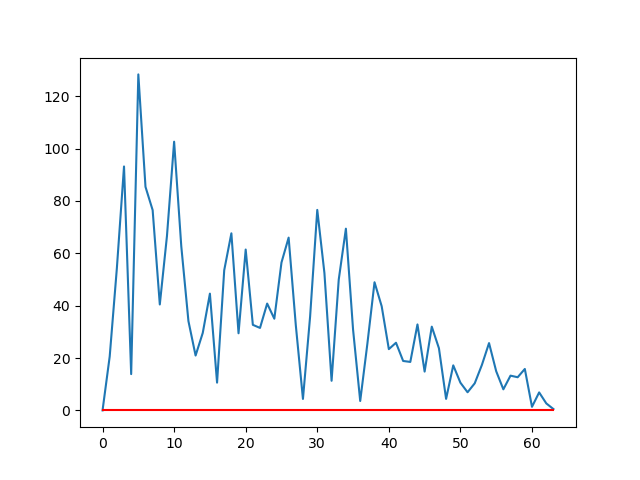
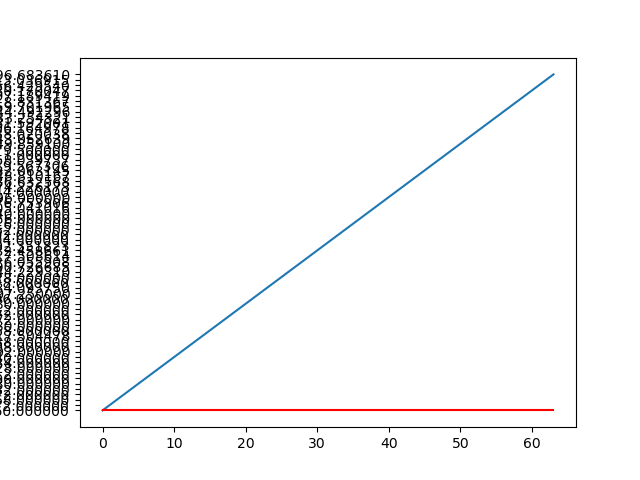
tried some new things for cooley-turkey. still not working. normal dft kinda broken too

diff --git a/fft.c b/fft.c
@@ -3,6 +3,7 @@
 #include <stdlib.h>
 
 #define PI 3.14159265358979323846
+#define N 64
 
 typedef struct {
     double real;
@@ -40,7 +41,8 @@ complex complex_from_polar(double r, double theta) {
 
 double test_func(double x) {
     // the period is 2pi/b, the frequency is b/2pi
-    return cos(10 * 2 * PI * x) + 2 * cos(20 * 2 * PI * x) + 3 * cos(30 * 2 * PI * x) + 4 * cos(40 * 2 * PI * x);  // frequency of 10
+    // return cos(10 * 2 * PI * x) + 2 * cos(20 * 2 * PI * x) + 3 * cos(30 * 2 * PI * x) + 4 * cos(40 * 2 * PI * x);  // frequency of 10
+    return cos(10 * 2 * PI * x) + 2 * cos(20 * 2 * PI * x);  // frequency of 10
 }
 
 void write_frequencies_csv(complex *X, int K) {
@@ -135,13 +137,15 @@ void cooley_turkey_rec(complex *x, complex *X, int n) {
     cooley_turkey_rec(odd, odd_transformed, n/2);
 
     // combine 2 arrays
-    for (size_t k = 0; k < n/2; k++) { 
-        double angle = -2 * PI * k / n;
+    for (size_t k = 0; k < n; k++) { 
+        double angle = -2 * PI / N * k;
         complex twiddle = complex_from_polar(1.0, angle);
         complex t = complex_mul(twiddle, odd_transformed[k]);
 
-        X[k] = complex_add(even_transformed[k], t);
-        X[k + n / 2] = complex_sub(even_transformed[k], t);
+        // X[k] = complex_add(X[k], complex_add(even_transformed[k], t));
+        // X[k + n / 2] = complex_add(X[k + n / 2], complex_sub(even_transformed[k], t));
+        X[k].real += t.real * even_transformed[k].real - t.imag * even_transformed[k].imag;
+        X[k].imag += t.real * even_transformed[k].imag + t.imag * even_transformed[k].real;
     } 
 
 } 
